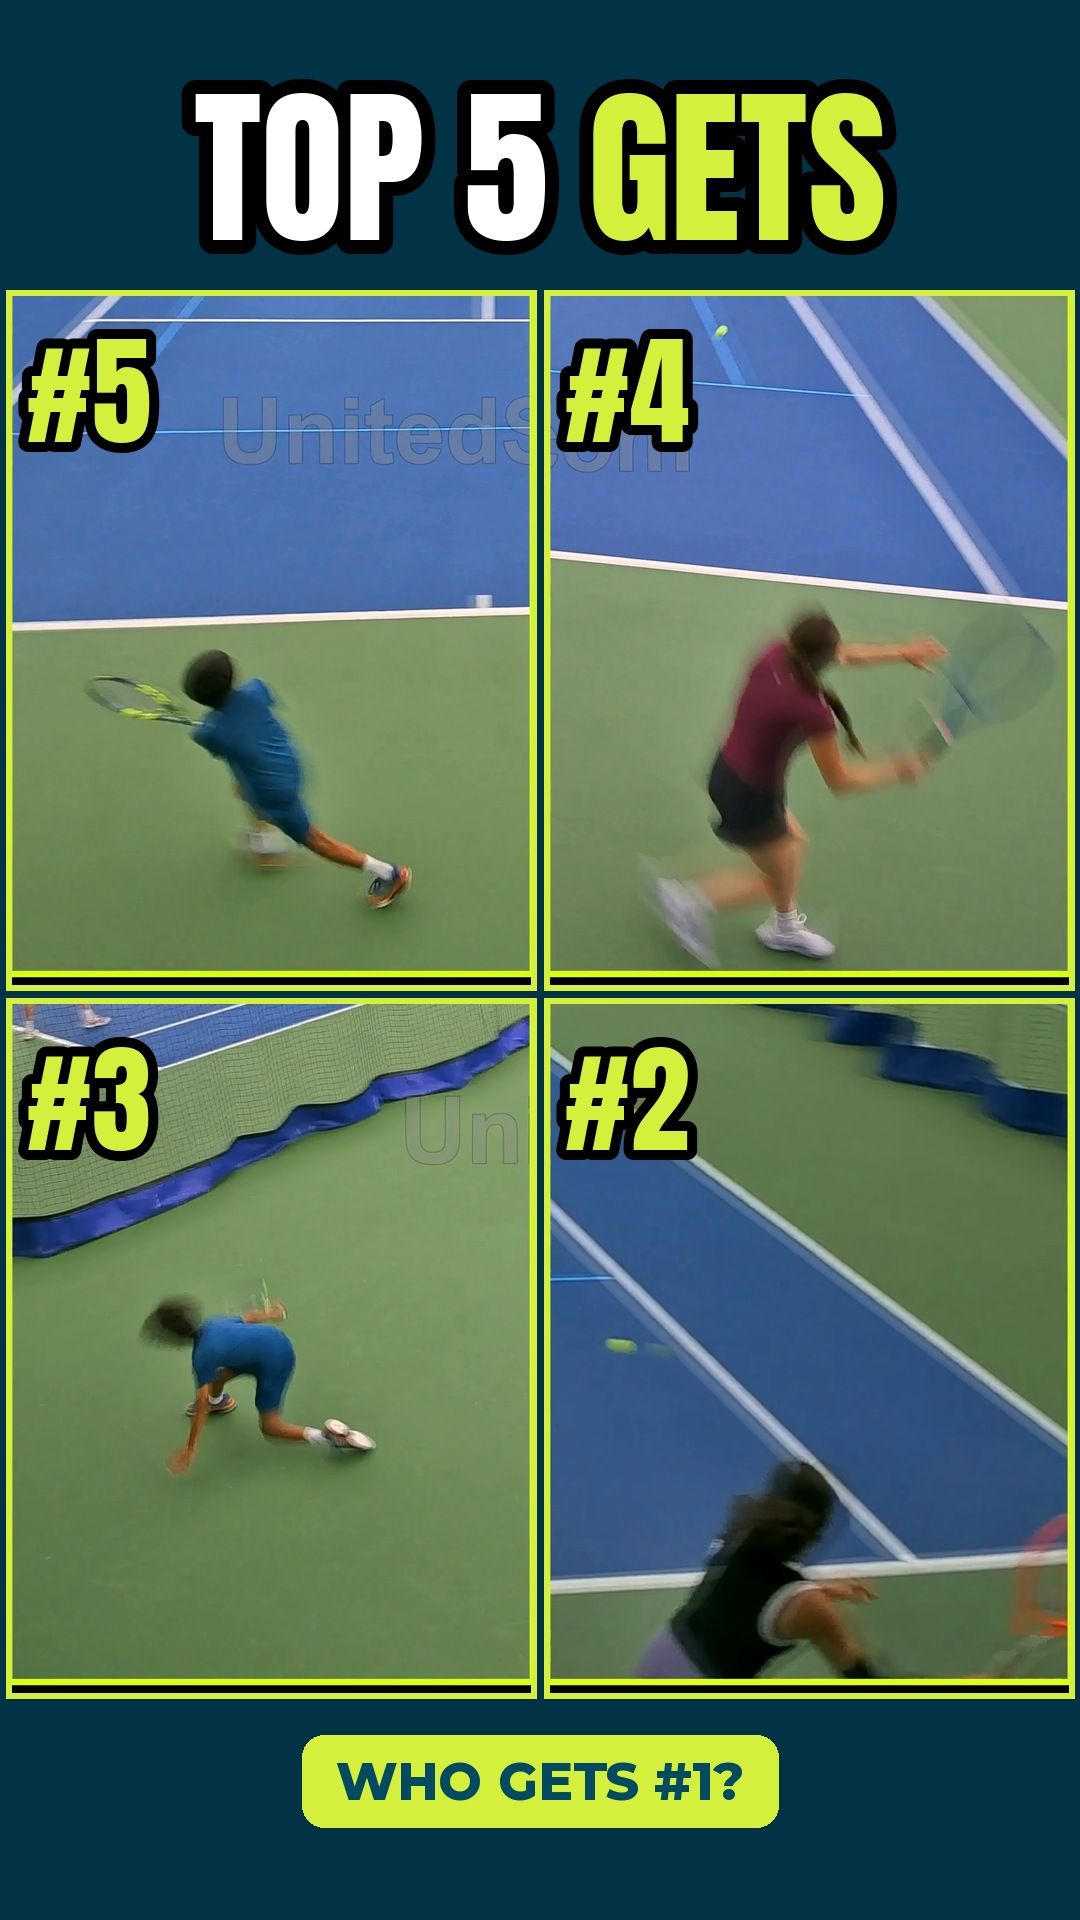
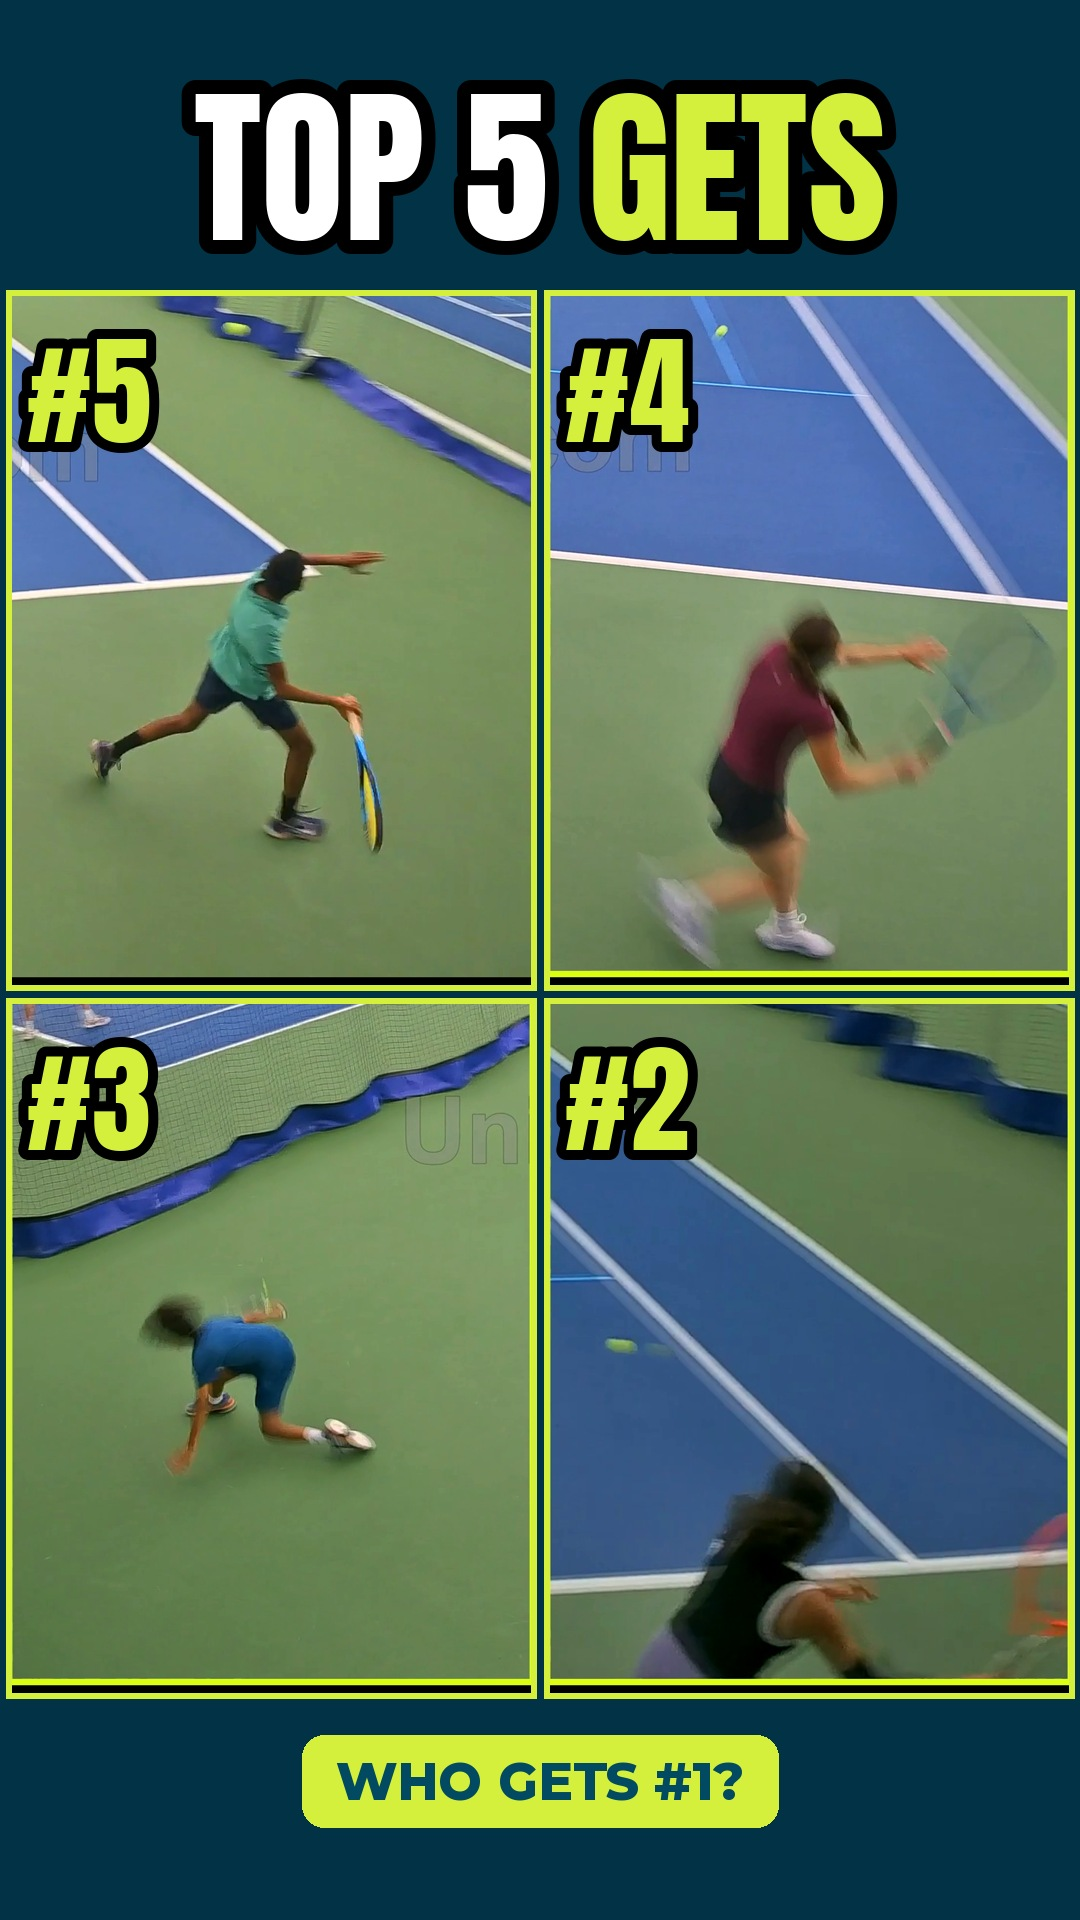
Short 10: #5 swapped to teal's running get (different player from #3)
Claude-Session: https://claude.ai/code/session_01YRuimetzu38Wrh9hzFjRuJ

Changed region(s): [[0.0, 0.1562, 0.5194, 0.5312]]

diff --git a/tools/rally-short/build_short10_top5.py b/tools/rally-short/build_short10_top5.py
@@ -1,4 +1,4 @@
-# Source: session scratchpad hl/t5/top5.py. Run from the folder that holds r10/ r20/ r24/ r59/ r64/ t5/.
+# Source: session scratchpad hl/t5/top5.py. Run from the folder that holds r10/ r20/ r24/ r47/ r59/ t5/.
 """Short 10: TOP 5 GETS. Compilation of the best defensive moments from Shorts 05-09. 9:16, 30 fps.
   hook   #1 teaser in slow motion + TOP 5 GETS title (Brian: "Top five gets of the tournament. Let's go.")
   items  #5 -> #1: real speed, then slow-mo of the get with a big rank badge and a label; Brian counts, Jessica reacts
@@ -37,10 +37,10 @@ class Clip:
         o = cv2.resize(img[y0:y0 + ch, x0:x0 + cw], (OW, OH), interpolation=cv2.INTER_LANCZOS4)
         b = cv2.GaussianBlur(o, (0, 0), 1.6); return cv2.addWeighted(o, 1.3, b, -0.3, 0)
 
-C = {d: Clip(d) for d in ('r64', 'r10', 'r59', 'r24', 'r20')}
+C = {d: Clip(d) for d in ('r47', 'r10', 'r59', 'r24', 'r20')}
 ZOOM = {'r24': 1.7}                                   # black sits at the bottom edge of that camera: crop tighter
 #        rank, clip,  real window,   slow window,   rate, contact, label
-ITEMS = [(5, 'r64', (13.6, 15.4), (14.3, 15.3), 0.4, 14.85, 'FULL SPLIT'),
+ITEMS = [(5, 'r47', (25.2, 27.6), (26.1, 27.1), 0.4, 26.8, 'ON THE RUN'),
          (4, 'r10', (12.2, 14.0), (12.9, 13.7), 0.4, 13.30, 'THE SLIDE'),
          (3, 'r59', (11.3, 14.6), (11.7, 12.7), 0.4, 11.86, 'DOWN & BACK UP'),
          (2, 'r24', (19.4, 21.0), (20.0, 20.8), 0.4, 20.39, 'FULL STRETCH'),
@@ -84,7 +84,7 @@ VO = {f[:-4]: float(subprocess.run(['ffprobe', '-v', 'error', '-show_entries', '
       for f in os.listdir('t5/vo') if f.endswith('.wav')}
 WORDS = json.load(open('t5/vo/words.json'))
 TXT = {'b0': "Top five gets of the tournament. Let's go.", 'b5': "Number five.", 'b4': "Number four.", 'b3': "Number three.", 'b2': "Number two.",
-       'b1': "And number one.", 'j5': "Full split!", 'j4': "The slide!", 'j3': "Down… and right back UP!", 'j2': "Full stretch!",
+       'b1': "And number one.", 'j5': "On the run!", 'j4': "The slide!", 'j3': "Down… and right back UP!", 'j2': "Full stretch!",
        'j1': "Sprint, lunge, still swinging!", 'je': "Which one's YOUR number one? Comment one to five."}
 VO_AT = [('b0', 0.05)]
 for s in L:

diff --git a/demo-output/unitedsets/shorts-thanksgiving/Short-10-post-copy.md b/demo-output/unitedsets/shorts-thanksgiving/Short-10-post-copy.md
@@ -1,6 +1,6 @@
 # Short 10: "Top 5 gets" post copy
 
-**Video:** `UnitedSets-Short-10-top-5-gets.mp4` (9:16, 29 s)
+**Video:** `UnitedSets-Short-10-top-5-gets.mp4` (9:16, 30 s)
 **Thumbnails:** `thumbnails/short10_thumb_A_top-5-gets.jpg` (YouTube and TikTok cover), `thumbnails/short10_thumb_B_grid.jpg` (Instagram and Facebook cover)
 
 ## Title (pick one)
@@ -11,7 +11,7 @@
 ## Description
 The 5 best gets from the UnitedSets tournament 🔥🎾
 
-#5 Full split
+#5 On the run
 #4 The slide
 #3 Down… and right back up
 #2 Full stretch
